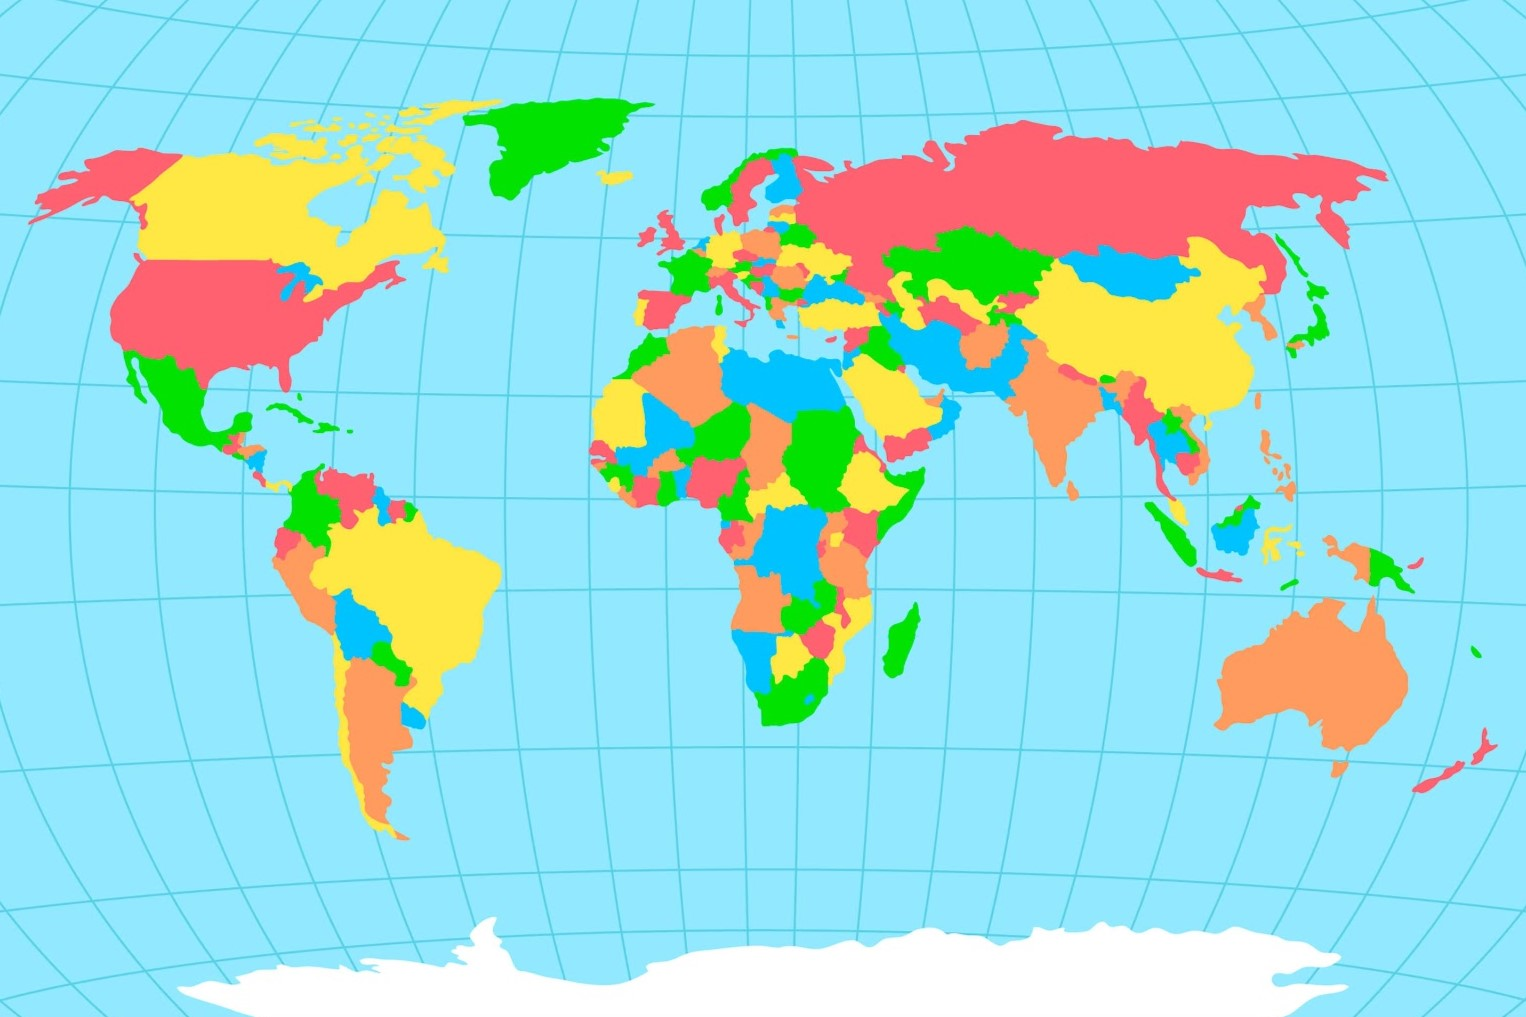
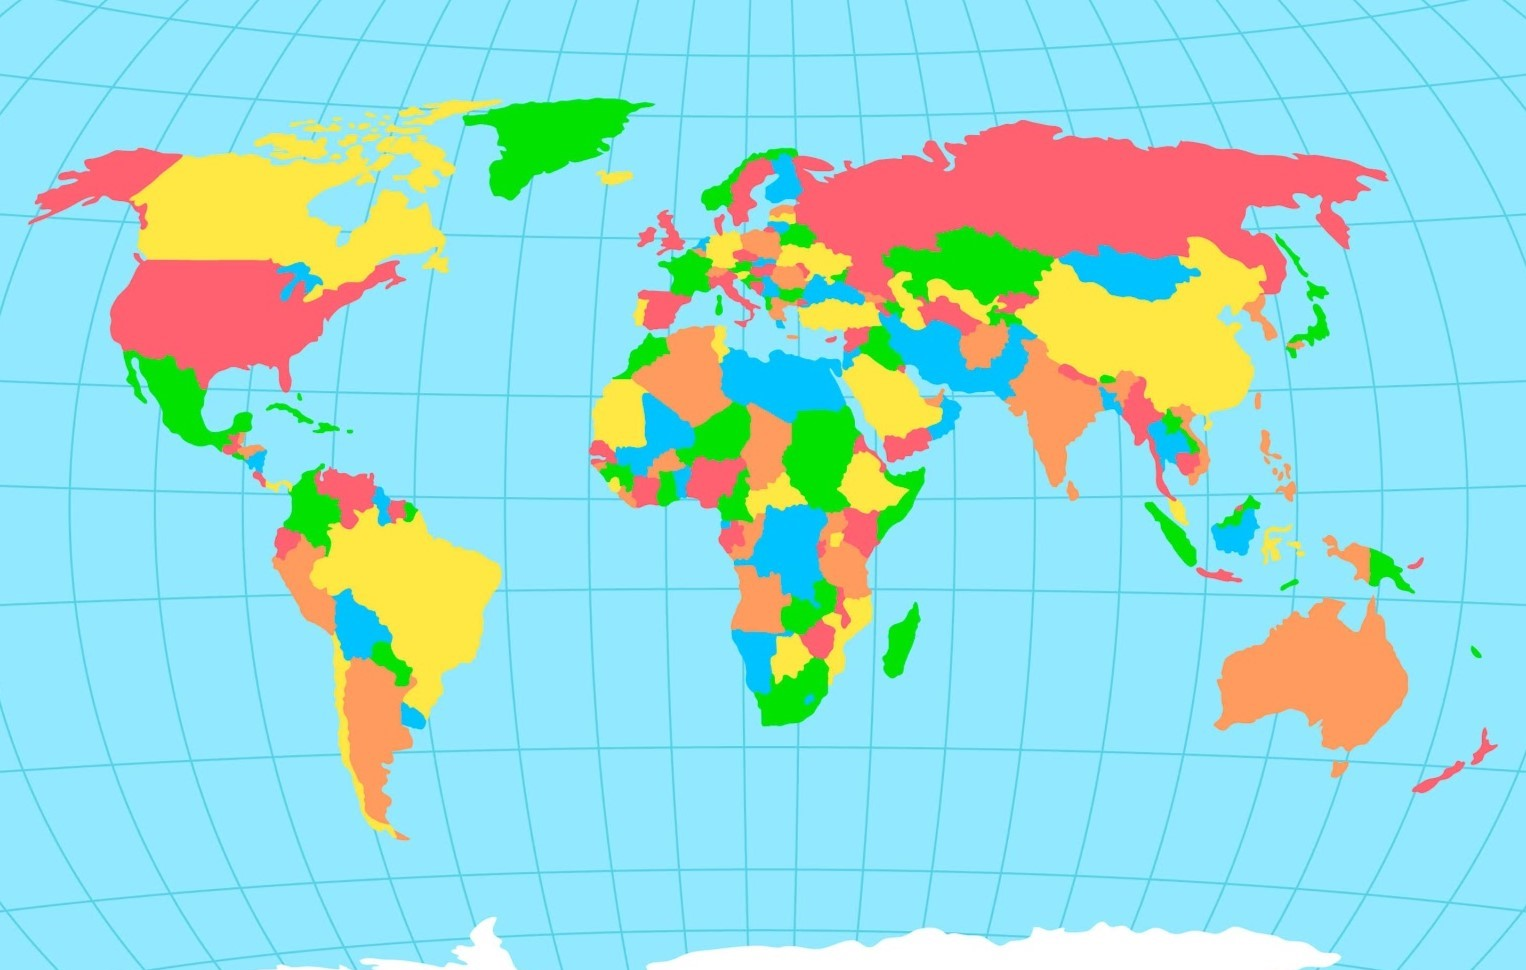
styles added

diff --git a/index.html b/index.html
@@ -20,7 +20,7 @@
     <body>
         <div class="globe">
             <div id="earthTerrain" class="globeRotation">
-                <img id="earthImg" draggable="false" class="earthImage" src="./mundo2.jpg"></img>
+                <img id="earthImg" draggable="false" class="earthImage" src="./mundo.jpg"></img>
             </div>
         </div>
         <div class="content">
@@ -6331,7 +6331,7 @@
                     </div>
                 </div>
             </div>
-            <div class="countryContent" id="">
+            <!-- ><div class="countryContent" id="">
                 <div class="countryContentIndeed" onclick="openCountryContent('')">
                     <div class="cCITitle"></div>
                     <div class="cCIContentTitle">
@@ -6350,7 +6350,7 @@
                     <div class="cCIContentContent">
                     </div>
                 </div>
-            </div>
+            <!--></div>
         </div>
         <script src="./main.js" type="module"></script>
     </body>

diff --git a/main.css b/main.css
@@ -34,7 +34,7 @@ body{
     transition: box-shadow 0.5s;
 }
 .globe:hover{
-    box-shadow: 0px 0px 20px 0px rgb(0, 150, 255);
+    box-shadow: 0px 0px 40px 0px rgb(0, 150, 255);
     cursor: pointer;
 }
 
@@ -46,15 +46,15 @@ body{
 .pin{
     box-sizing: border-box;
     position: absolute;
-    width: 5px;
-    height: 5px;
+    width: 7px;
+    height: 7px;
     border: 0px solid rgb(150, 0, 150);
     border-radius: 50%;
     background: rgb(150, 0, 150);
     transition: border 0.1s;
 }
 .pin:hover{
-    border: 5px solid rgb(150, 0, 150);
+    border: 7px solid rgb(150, 0, 150);
 }
 
 .globeRotation{
